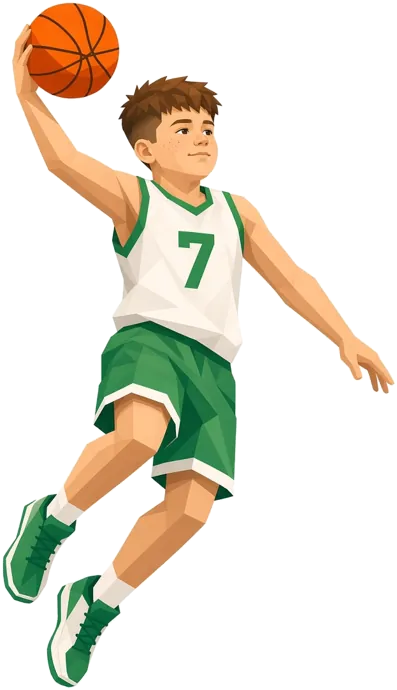
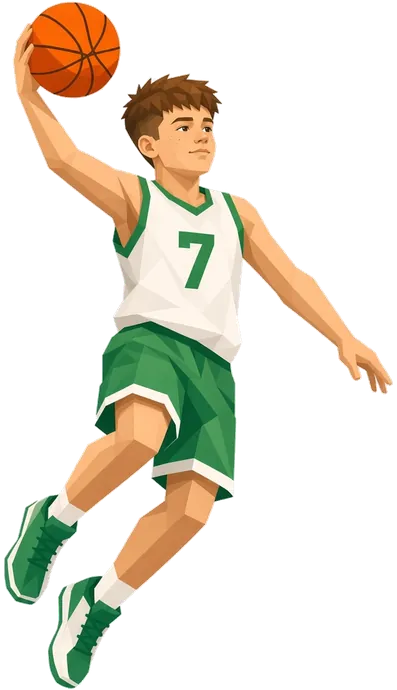
Обновить hero-player.webp и кэш 2026-11-28-23 (#58)
Новое фото в шапке, версии ассетов в HTML, sw.js и ASSET_V.

diff --git a/app.js b/app.js
@@ -881,7 +881,7 @@ function heroSeasonHeadlineStats() {
   return `${scope}<div class="hero-stats hero-stats--headline" aria-label="Ключевые средние за сезон">${cells}</div>`;
 }
 
-const ASSET_V = "2026-11-28-21";
+const ASSET_V = "2026-11-28-23";
 const ICON_GEAR = `<svg xmlns="http://www.w3.org/2000/svg" viewBox="0 0 24 24" width="20" height="20" aria-hidden="true" fill="none" stroke="currentColor" stroke-width="2" stroke-linecap="round" stroke-linejoin="round"><circle cx="12" cy="12" r="3"></circle><path d="M19.4 15a1.65 1.65 0 0 0 .33 1.82l.06.06a2 2 0 1 1-2.83 2.83l-.06-.06a1.65 1.65 0 0 0-1.82-.33 1.65 1.65 0 0 0-1 1.51V21a2 2 0 1 1-4 0v-.09A1.65 1.65 0 0 0 9 19.4a1.65 1.65 0 0 0-1.82.33l-.06.06a2 2 0 1 1-2.83-2.83l.06-.06A1.65 1.65 0 0 0 4.68 15a1.65 1.65 0 0 0-1.51-1H3a2 2 0 1 1 0-4h.09A1.65 1.65 0 0 0 4.6 9a1.65 1.65 0 0 0-.33-1.82l-.06-.06a2 2 0 1 1 2.83-2.83l.06.06A1.65 1.65 0 0 0 9 4.68a1.65 1.65 0 0 0 1-1.51V3a2 2 0 1 1 4 0v.09a1.65 1.65 0 0 0 1 1.51 1.65 1.65 0 0 0 1.82-.33l.06-.06a2 2 0 1 1 2.83 2.83l-.06.06A1.65 1.65 0 0 0 19.4 9a1.65 1.65 0 0 0 1.51 1H21a2 2 0 1 1 0 4h-.09a1.65 1.65 0 0 0-1.51 1z"></path></svg>`;
 const ICON_REFRESH = `<svg xmlns="http://www.w3.org/2000/svg" viewBox="0 0 24 24" width="18" height="18" aria-hidden="true" fill="none" stroke="currentColor" stroke-width="2" stroke-linecap="round" stroke-linejoin="round"><path d="M21 12a9 9 0 0 0-9-9 9.75 9.75 0 0 0-6.74 2.74L3 8"></path><path d="M3 3v5h5"></path><path d="M3 12a9 9 0 0 0 9 9 9.75 9.75 0 0 0 6.74-2.74L21 16"></path><path d="M16 16h5v5"></path></svg>`;
 const ICON_PENCIL = `<svg xmlns="http://www.w3.org/2000/svg" viewBox="0 0 24 24" width="18" height="18" aria-hidden="true" fill="none" stroke="currentColor" stroke-width="2" stroke-linecap="round" stroke-linejoin="round"><path d="M12 20h9"></path><path d="M16.5 3.5a2.12 2.12 0 0 1 3 3L7 19l-4 1 1-4Z"></path></svg>`;

diff --git a/sw.js b/sw.js
@@ -2,7 +2,7 @@ importScripts("https://cdn.onesignal.com/sdks/web/v16/OneSignalSDK.sw.js");
 
 "use strict";
 
-const VERSION = "2026-11-28-21";
+const VERSION = "2026-11-28-23";
 const STATIC = `kostya-static-${VERSION}`;
 const DATA = `kostya-data-${VERSION}`;
 
@@ -15,21 +15,21 @@ const PRECACHE = [
   "./development.html",
   "./data.json",
   "./news.json",
-  "./fonts/fonts.css?v=2026-11-28-21",
+  "./fonts/fonts.css?v=2026-11-28-23",
   "./fonts/xn7gYHE41ni1AdIRggOxSuXd.woff2",
   "./fonts/xn7gYHE41ni1AdIRggexSg.woff2",
   "./fonts/Yq6W-LOTXCb04q32xlpwv8ZfrxE.woff2",
   "./fonts/Yq6W-LOTXCb04q32xlpwu8Zf.woff2",
-  "./styles.css?v=2026-11-28-21",
-  "./app.js?v=2026-11-28-21",
-  "./manifest.json?v=2026-11-28-21",
+  "./styles.css?v=2026-11-28-23",
+  "./app.js?v=2026-11-28-23",
+  "./manifest.json?v=2026-11-28-23",
   "./favicon.svg",
   "./logo.svg",
   "./logo.png",
   "./logo-mark.svg",
   "./logo-mark.png",
-  "./assets/hero-player.webp?v=2026-11-28-21",
-  "./assets/rostok-logo.webp?v=2026-11-28-21",
+  "./assets/hero-player.webp?v=2026-11-28-23",
+  "./assets/rostok-logo.webp?v=2026-11-28-23",
   "./apple-touch-icon-v3-180.png",
   "./icon-v3-192.png",
   "./icon-v3-512.png",

diff --git a/index.html b/index.html
@@ -11,9 +11,9 @@
   <link rel="apple-touch-icon" href="apple-touch-icon-v3-180.png?v=2026-11-23-01">
   <meta name="mobile-web-app-capable" content="yes">
   <title>Костя Д. — профиль</title>
-  <link rel="preload" href="fonts/fonts.css?v=2026-11-28-21" as="style">
-  <link rel="stylesheet" href="fonts/fonts.css?v=2026-11-28-21">
-  <link rel="stylesheet" href="styles.css?v=2026-11-28-21">
+  <link rel="preload" href="fonts/fonts.css?v=2026-11-28-23" as="style">
+  <link rel="stylesheet" href="fonts/fonts.css?v=2026-11-28-23">
+  <link rel="stylesheet" href="styles.css?v=2026-11-28-23">
 </head>
 <body data-page="profile">
   <a class="skip" href="#content">К содержанию</a>
@@ -56,6 +56,6 @@
   <button type="button" class="to-top" id="to-top" hidden>Наверх</button>
   <noscript>Чтобы собрать страницу из data.json, нужен JavaScript.</noscript>
   <script src="https://cdn.onesignal.com/sdks/web/v16/OneSignalSDK.page.js" defer></script>
-  <script src="app.js?v=2026-11-28-21" defer></script>
+  <script src="app.js?v=2026-11-28-23" defer></script>
 </body>
 </html>

diff --git a/team.html b/team.html
@@ -11,9 +11,9 @@
   <link rel="apple-touch-icon" href="apple-touch-icon-v3-180.png?v=2026-11-23-01">
   <meta name="mobile-web-app-capable" content="yes">
   <title>Команда — Росток-2014</title>
-  <link rel="preload" href="fonts/fonts.css?v=2026-11-28-21" as="style">
-  <link rel="stylesheet" href="fonts/fonts.css?v=2026-11-28-21">
-  <link rel="stylesheet" href="styles.css?v=2026-11-28-21">
+  <link rel="preload" href="fonts/fonts.css?v=2026-11-28-23" as="style">
+  <link rel="stylesheet" href="fonts/fonts.css?v=2026-11-28-23">
+  <link rel="stylesheet" href="styles.css?v=2026-11-28-23">
 </head>
 <body data-page="team">
   <a class="skip" href="#content">К содержанию</a>
@@ -56,6 +56,6 @@
   <button type="button" class="to-top" id="to-top" hidden>Наверх</button>
   <noscript>Чтобы собрать страницу из data.json, нужен JavaScript.</noscript>
   <script src="https://cdn.onesignal.com/sdks/web/v16/OneSignalSDK.page.js" defer></script>
-  <script src="app.js?v=2026-11-28-21" defer></script>
+  <script src="app.js?v=2026-11-28-23" defer></script>
 </body>
 </html>

diff --git a/career.html b/career.html
@@ -11,9 +11,9 @@
   <link rel="apple-touch-icon" href="apple-touch-icon-v3-180.png?v=2026-11-23-01">
   <meta name="mobile-web-app-capable" content="yes">
   <title>Костя Д. — карьера</title>
-  <link rel="preload" href="fonts/fonts.css?v=2026-11-28-21" as="style">
-  <link rel="stylesheet" href="fonts/fonts.css?v=2026-11-28-21">
-  <link rel="stylesheet" href="styles.css?v=2026-11-28-21">
+  <link rel="preload" href="fonts/fonts.css?v=2026-11-28-23" as="style">
+  <link rel="stylesheet" href="fonts/fonts.css?v=2026-11-28-23">
+  <link rel="stylesheet" href="styles.css?v=2026-11-28-23">
 </head>
 <body data-page="career">
   <a class="skip" href="#content">К содержанию</a>
@@ -56,6 +56,6 @@
   <button type="button" class="to-top" id="to-top" hidden>Наверх</button>
   <noscript>Чтобы собрать страницу из data.json, нужен JavaScript.</noscript>
   <script src="https://cdn.onesignal.com/sdks/web/v16/OneSignalSDK.page.js" defer></script>
-  <script src="app.js?v=2026-11-28-21" defer></script>
+  <script src="app.js?v=2026-11-28-23" defer></script>
 </body>
 </html>

diff --git a/mama.html b/mama.html
@@ -11,9 +11,9 @@
   <link rel="apple-touch-icon" href="apple-touch-icon-v3-180.png?v=2026-11-23-01">
   <meta name="mobile-web-app-capable" content="yes">
   <title>Костя Д. — для мамы</title>
-  <link rel="preload" href="fonts/fonts.css?v=2026-11-28-21" as="style">
-  <link rel="stylesheet" href="fonts/fonts.css?v=2026-11-28-21">
-  <link rel="stylesheet" href="styles.css?v=2026-11-28-21">
+  <link rel="preload" href="fonts/fonts.css?v=2026-11-28-23" as="style">
+  <link rel="stylesheet" href="fonts/fonts.css?v=2026-11-28-23">
+  <link rel="stylesheet" href="styles.css?v=2026-11-28-23">
 </head>
 <body data-page="mama">
   <a class="skip" href="#content">К содержанию</a>
@@ -56,6 +56,6 @@
   <button type="button" class="to-top" id="to-top" hidden>Наверх</button>
   <noscript>Чтобы собрать страницу из data.json, нужен JavaScript.</noscript>
   <script src="https://cdn.onesignal.com/sdks/web/v16/OneSignalSDK.page.js" defer></script>
-  <script src="app.js?v=2026-11-28-21" defer></script>
+  <script src="app.js?v=2026-11-28-23" defer></script>
 </body>
 </html>

diff --git a/development.html b/development.html
@@ -11,9 +11,9 @@
   <link rel="apple-touch-icon" href="apple-touch-icon-v3-180.png?v=2026-11-23-04">
   <meta name="mobile-web-app-capable" content="yes">
   <title>Костя — твой план</title>
-  <link rel="preload" href="fonts/fonts.css?v=2026-11-28-21" as="style">
-  <link rel="stylesheet" href="fonts/fonts.css?v=2026-11-28-21">
-  <link rel="stylesheet" href="styles.css?v=2026-11-28-21">
+  <link rel="preload" href="fonts/fonts.css?v=2026-11-28-23" as="style">
+  <link rel="stylesheet" href="fonts/fonts.css?v=2026-11-28-23">
+  <link rel="stylesheet" href="styles.css?v=2026-11-28-23">
 </head>
 <body data-page="development">
   <a class="skip" href="#content">К содержанию</a>
@@ -56,6 +56,6 @@
   <button type="button" class="to-top" id="to-top" hidden>Наверх</button>
   <noscript>Чтобы открыть план, нужен JavaScript.</noscript>
   <script src="https://cdn.onesignal.com/sdks/web/v16/OneSignalSDK.page.js" defer></script>
-  <script src="app.js?v=2026-11-28-21" defer></script>
+  <script src="app.js?v=2026-11-28-23" defer></script>
 </body>
 </html>
